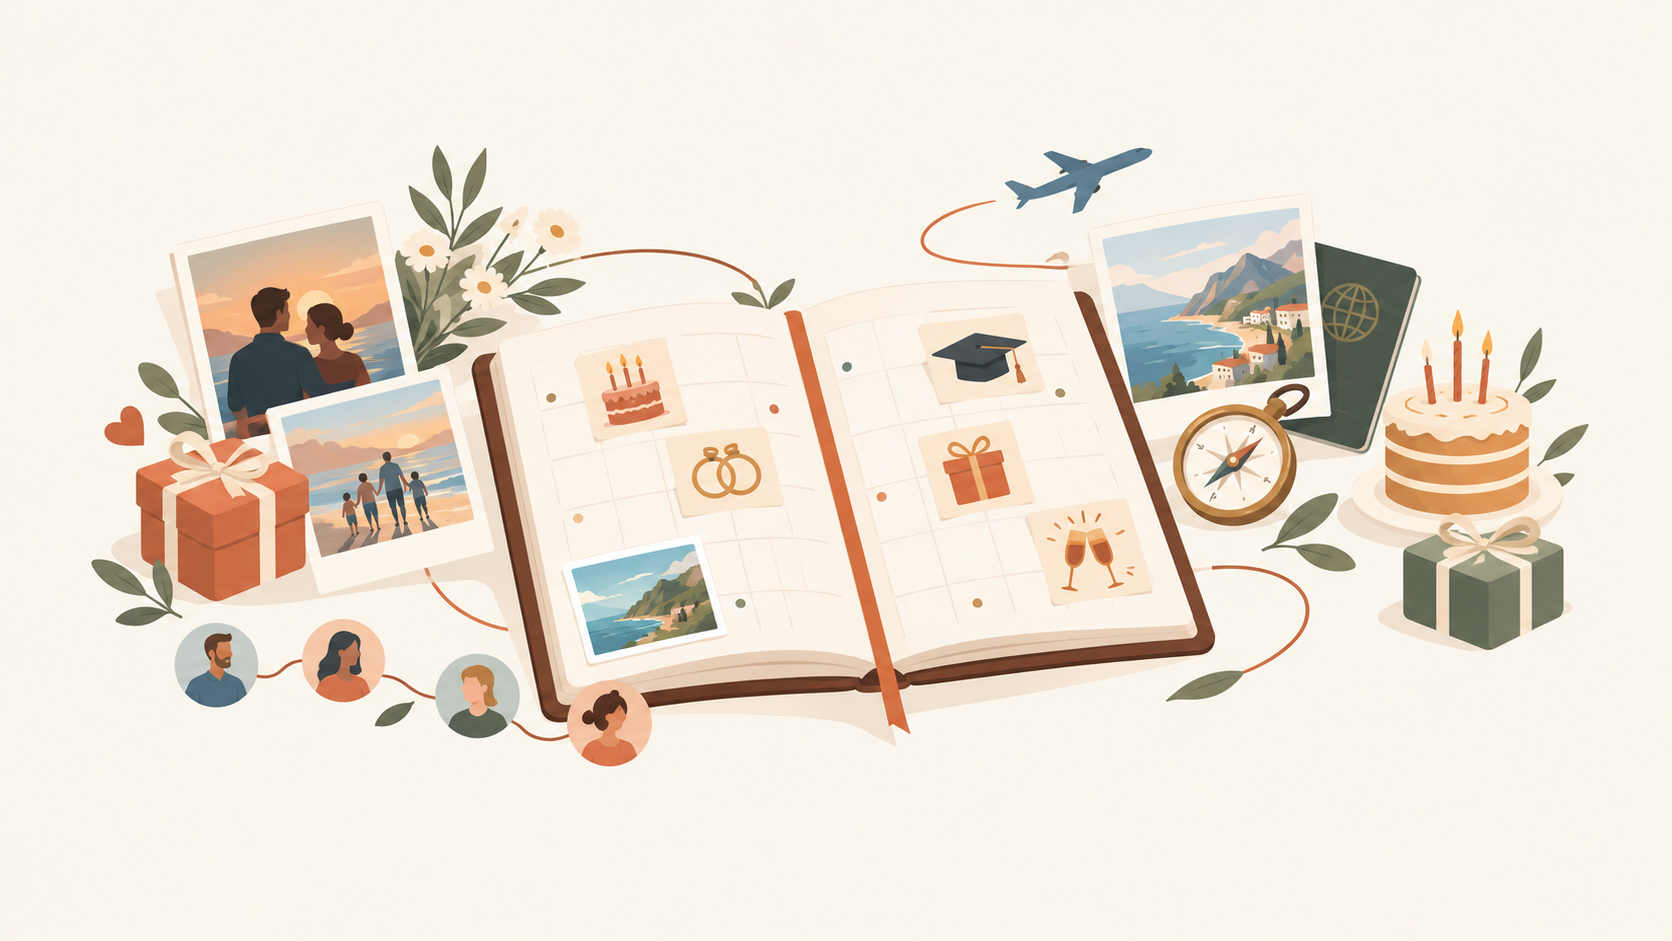
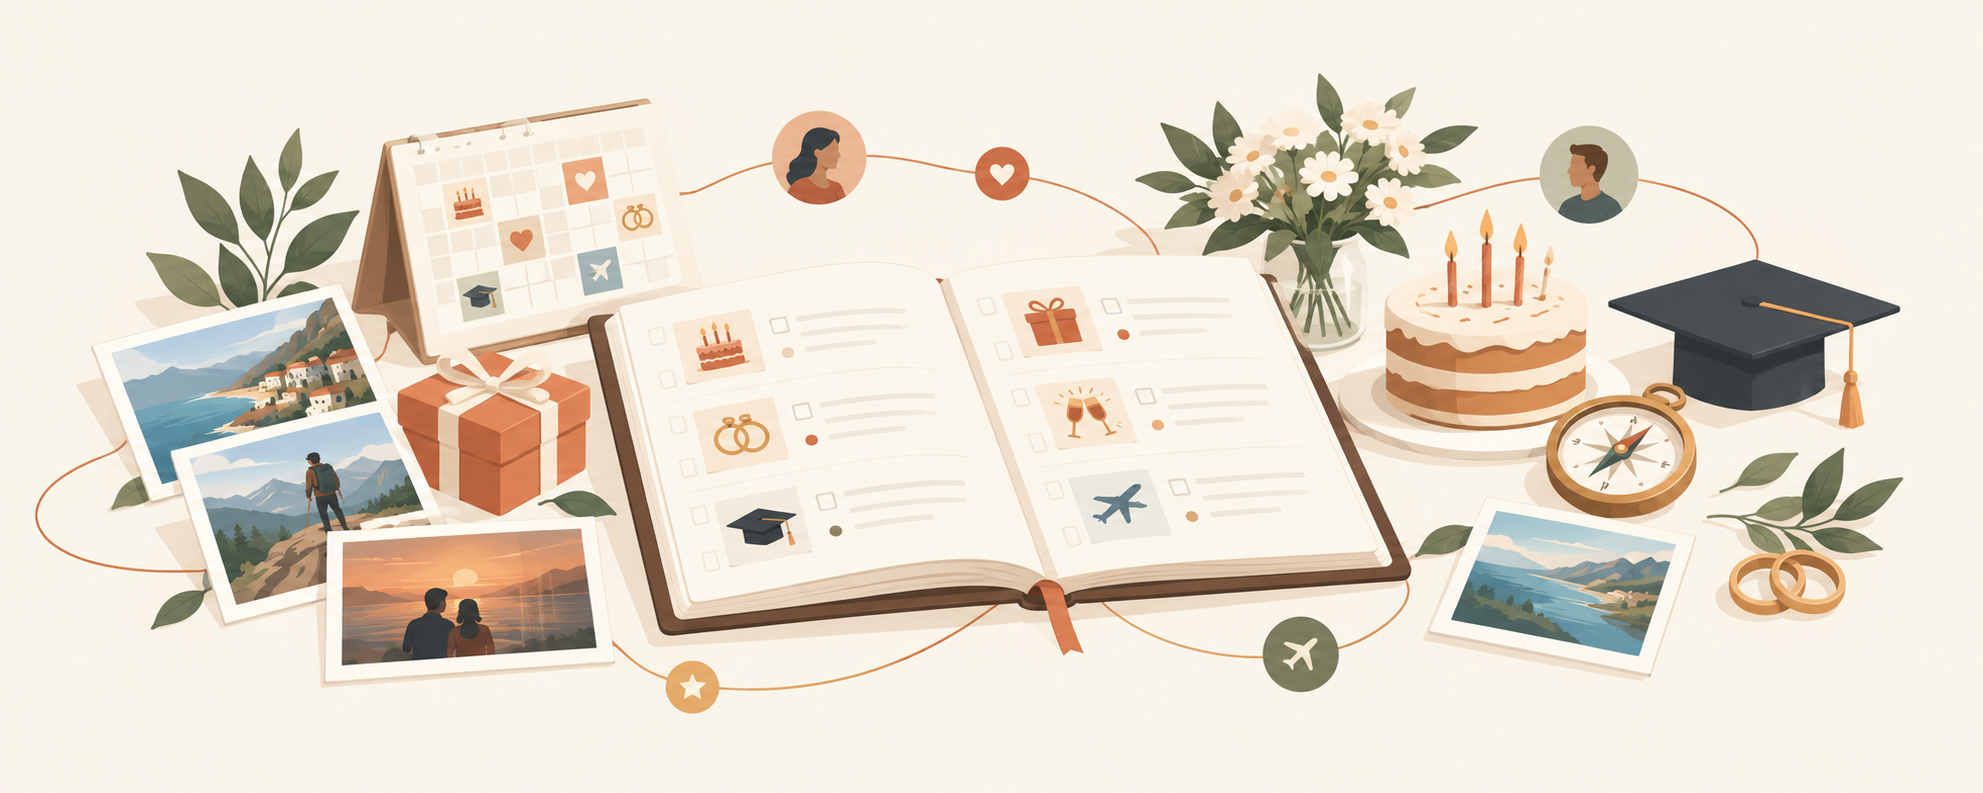
Main: feat: swap in 2.5:1 hero images for Occasions and Chronicle landing pages
Replaces the 16:9 placeholder heroes with wider (2.5:1) regenerated images
that match the app_landing hero container's real aspect ratio, eliminating
most of the object-fit: cover cropping. Also documents this ratio as
precedent in the Image_Prompt template for future apps' hero images.

Claude-Session: https://claude.ai/code/session_01H7JNjuMsddiTZLDfVAeBPN

diff --git a/docs/context-prompts/active/Feature_-_App_Landing_Pages.md b/docs/context-prompts/active/Feature_-_App_Landing_Pages.md
@@ -135,29 +135,33 @@ skeleton, which didn't match this feature's actual scope — see Decisions above
   moderately cropped by `object-fit: cover` at typical desktop widths, since the
   hero container's real aspect ratio (~2.5:1) is wider than 16:9. See DEFERRED below.
 
-## Block 2 — Hero image regeneration + swap-in (Occasions + Chronicle) — DEFERRED, pending user
-* User is regenerating both hero images tomorrow at a wider aspect ratio (~2.5:1–3:1
-  "ultra-wide banner" instead of 16:9) to reduce/eliminate the cover-crop described
-  above. Once ready: swap `occasions-hero.png` for the new version, and move
-  `Chronicle_image.png` → `app/assets/images/chronicle-hero.png` (replacing the
-  current placeholder-text hero, which was never swapped in this session).
-* Decide then whether to also update `Image_Prompt_-_TEMPLATE.md`'s aspect-ratio
-  guidance for future apps' heroes (Docket/Cookbook/Gallery) to match.
+## Block 2 — Hero image regeneration + swap-in (Occasions + Chronicle) — DONE (2026-09-10)
+* User regenerated both heroes at 2.5:1 (1983×793 — `Occasions_Landingpage_Wide.png`,
+  `Chronicle_Landingpage_Wide.png`), matching the container ratio closely enough
+  that `object-fit: cover` now crops very little (confirmed via screenshot).
+* Moved into place as `app/assets/images/occasions-hero.png` (replacing the 16:9
+  version from Block 1) and `app/assets/images/chronicle-hero.png` (replacing the
+  old placeholder-text hero, which had never been swapped before this). The
+  obsolete square `Chronicle_image.png` staging file was deleted (superseded, not
+  used).
+* `Image_Prompt_-_TEMPLATE.md` updated with a concrete 2.5:1 precedent for future
+  app landing-page heroes (Docket/Cookbook/Gallery), so this crop problem isn't
+  rediscovered from scratch next time.
 
 ## Block 3 — Apps dropdown alphabetical order — DONE
 * Reordered `app/views/layouts/_top_nav.html.erb`'s Apps dropdown items to
   Chronicle, Occasions (alphabetical). Added an order-asserting spec to
   `top_nav_spec.rb`.
 
-## Block 4 — Retrofit — PARTIALLY DONE
+## Block 4 — Retrofit — DONE except manual check
 * Added a step to `docs/context-prompts/templates/App_-_TEMPLATE.md`'s Definition
   of Done documenting: for a brand-new app's first block, confirm its name exists
   in `AppPermission`'s `app_name` enum and `.githooks/commit-msg`'s `APPS` list,
   adding whichever is missing. DONE.
-* Full `rspec`/`rubocop`/`brakeman`/`bundler-audit` pass: DONE for Blocks 1 and 3.
-  Re-run once more after Block 2 lands.
-* Manual browser check: still outstanding — ask the user to eyeball `bin/dev`
-  once Block 2's images are in.
+* Full `rspec`/`rubocop`/`brakeman`/`bundler-audit` pass: DONE, all blocks,
+  2026-09-10 (950 feature examples, 0 failures, 9 pre-existing pending; 716
+  non-feature examples, 0 failures).
+* Manual browser check: still outstanding — ask the user to eyeball `bin/dev`.
 ---
 
 # DEFINITION OF DONE (per block)

diff --git a/docs/context-prompts/templates/Image_Prompt_-_TEMPLATE.md b/docs/context-prompts/templates/Image_Prompt_-_TEMPLATE.md
@@ -6,7 +6,12 @@
 # PLACEMENT
 * Where it's used: [landing page hero | app thumbnail in TopNav >> Apps | item placeholder
   (no user-uploaded image) | avatar placeholder | other]
-* Dimensions / aspect ratio: [e.g. 1200x600, or "square, matches existing app thumbnails"]
+* Dimensions / aspect ratio: [e.g. 1200x600, or "square, matches existing app thumbnails"].
+  For an app landing-page hero specifically: ~2.5:1 (e.g. 1983×793, as used by Occasions
+  and Chronicle) — matches the `app_landing` partial's full-width/`clamp(16rem, 45vh,
+  28rem)`-tall hero container closely enough that `object-fit: cover` crops very little.
+  A 16:9 image crops noticeably more at typical desktop widths — confirmed the hard way
+  once already, don't repeat it.
 * Responsive behaviour: [does it need to crop/scale gracefully, any art-direction concerns]
 
 ---
